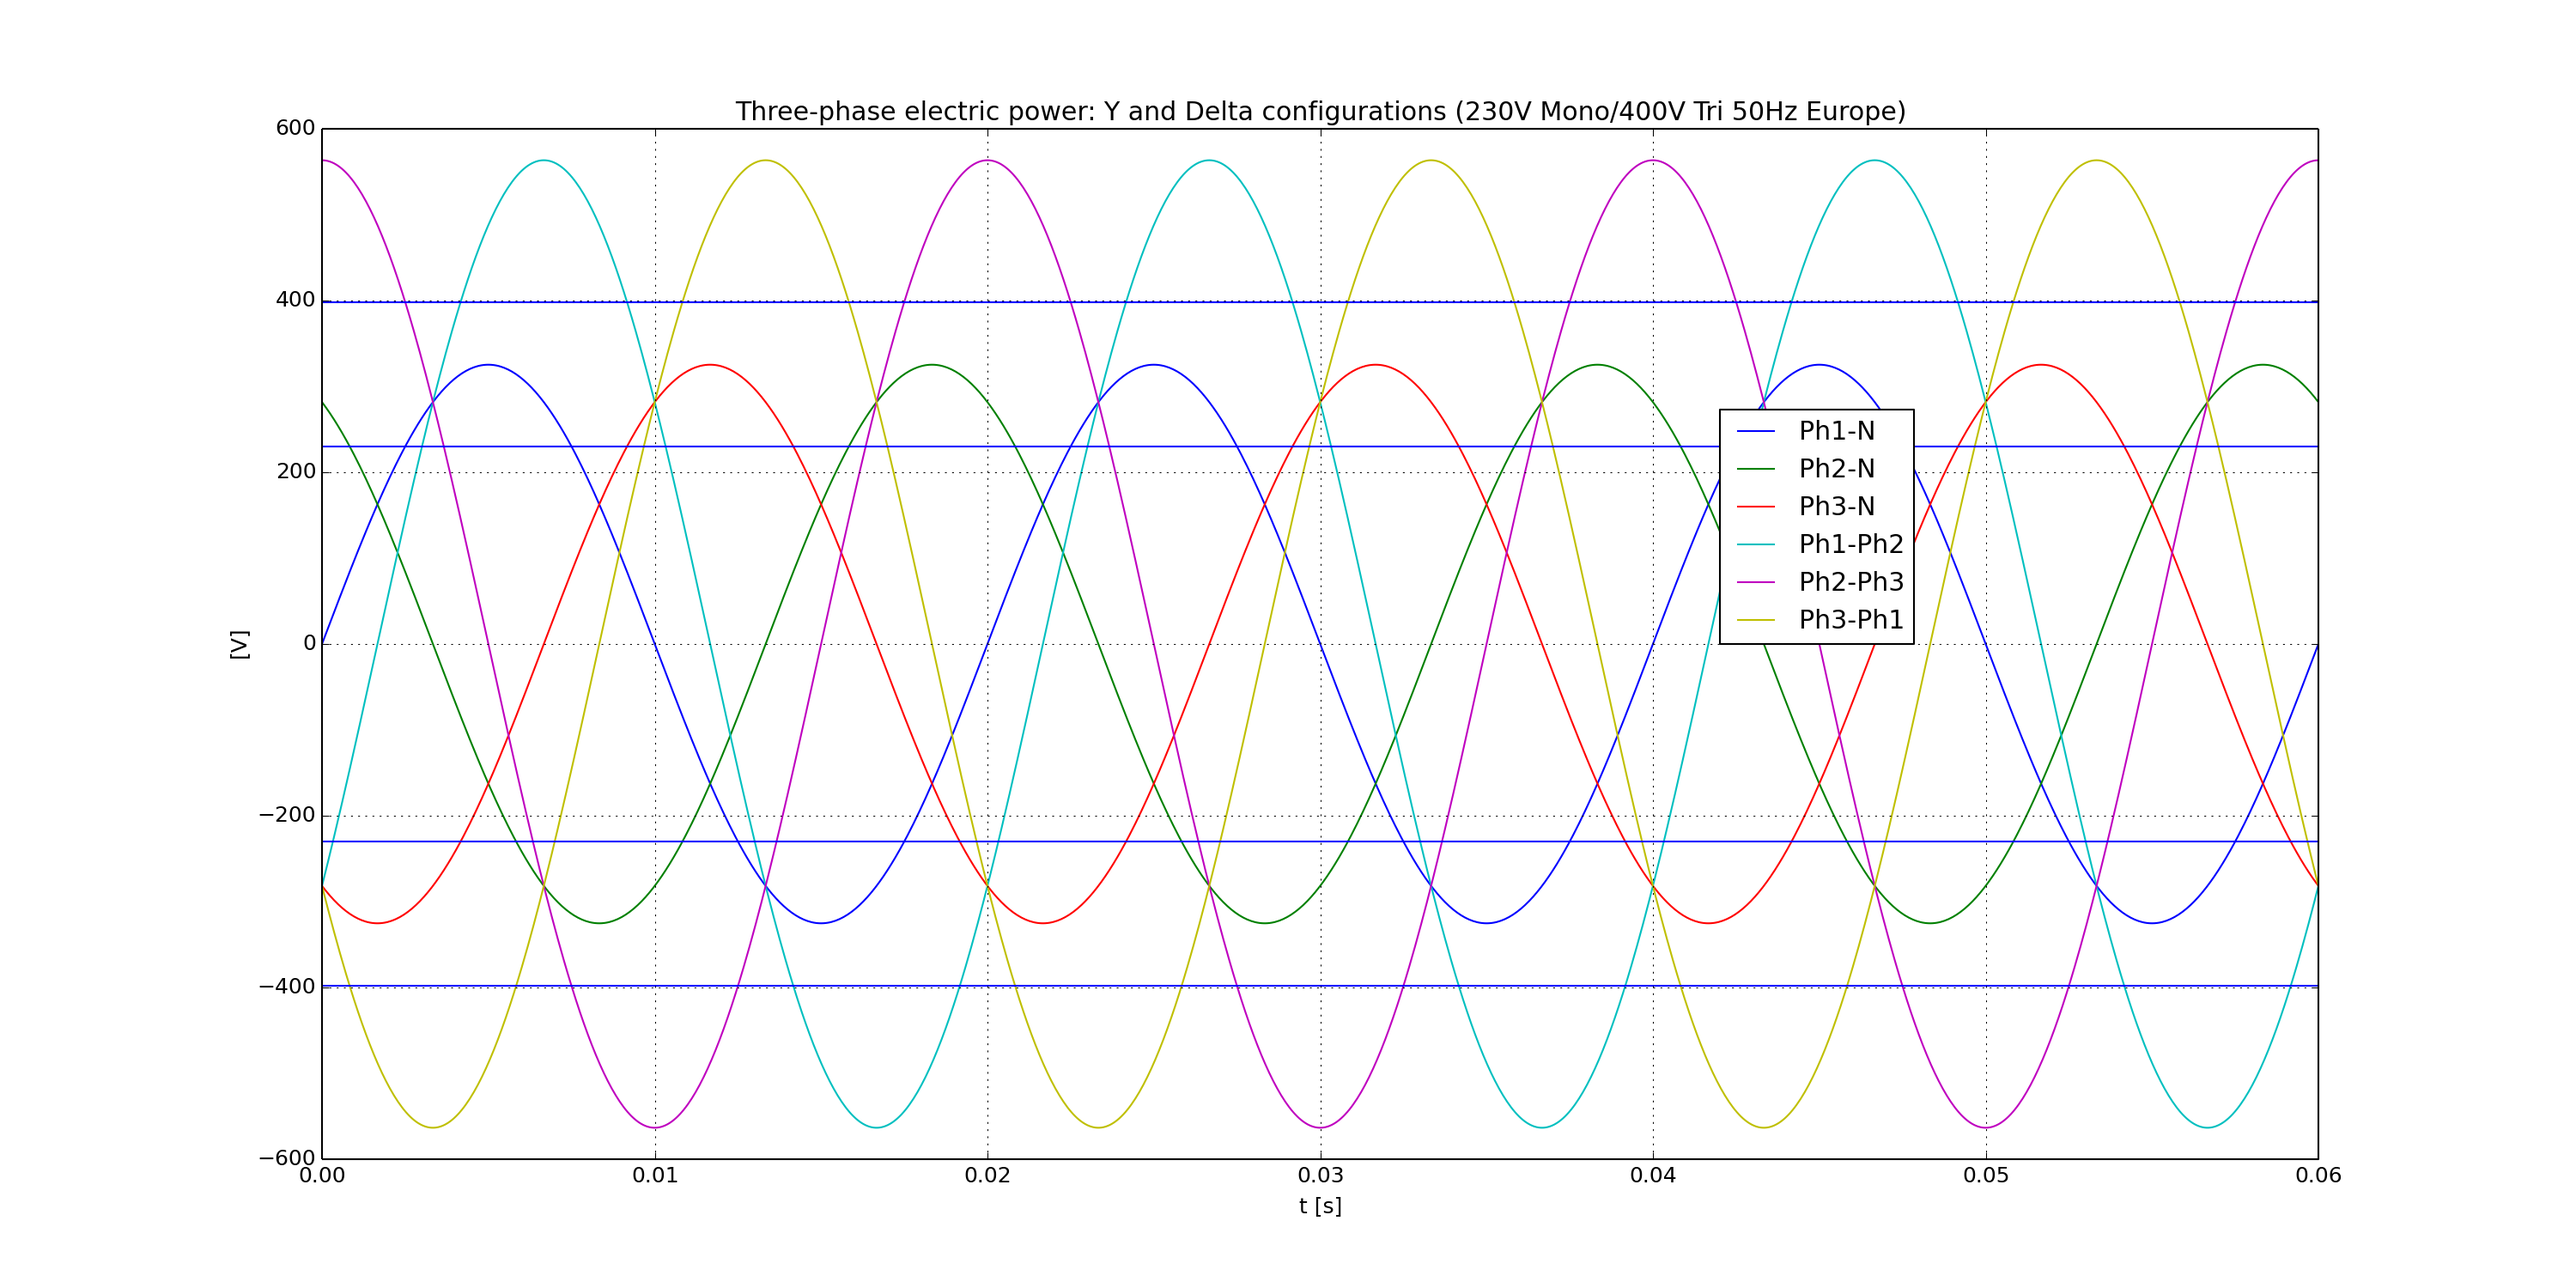
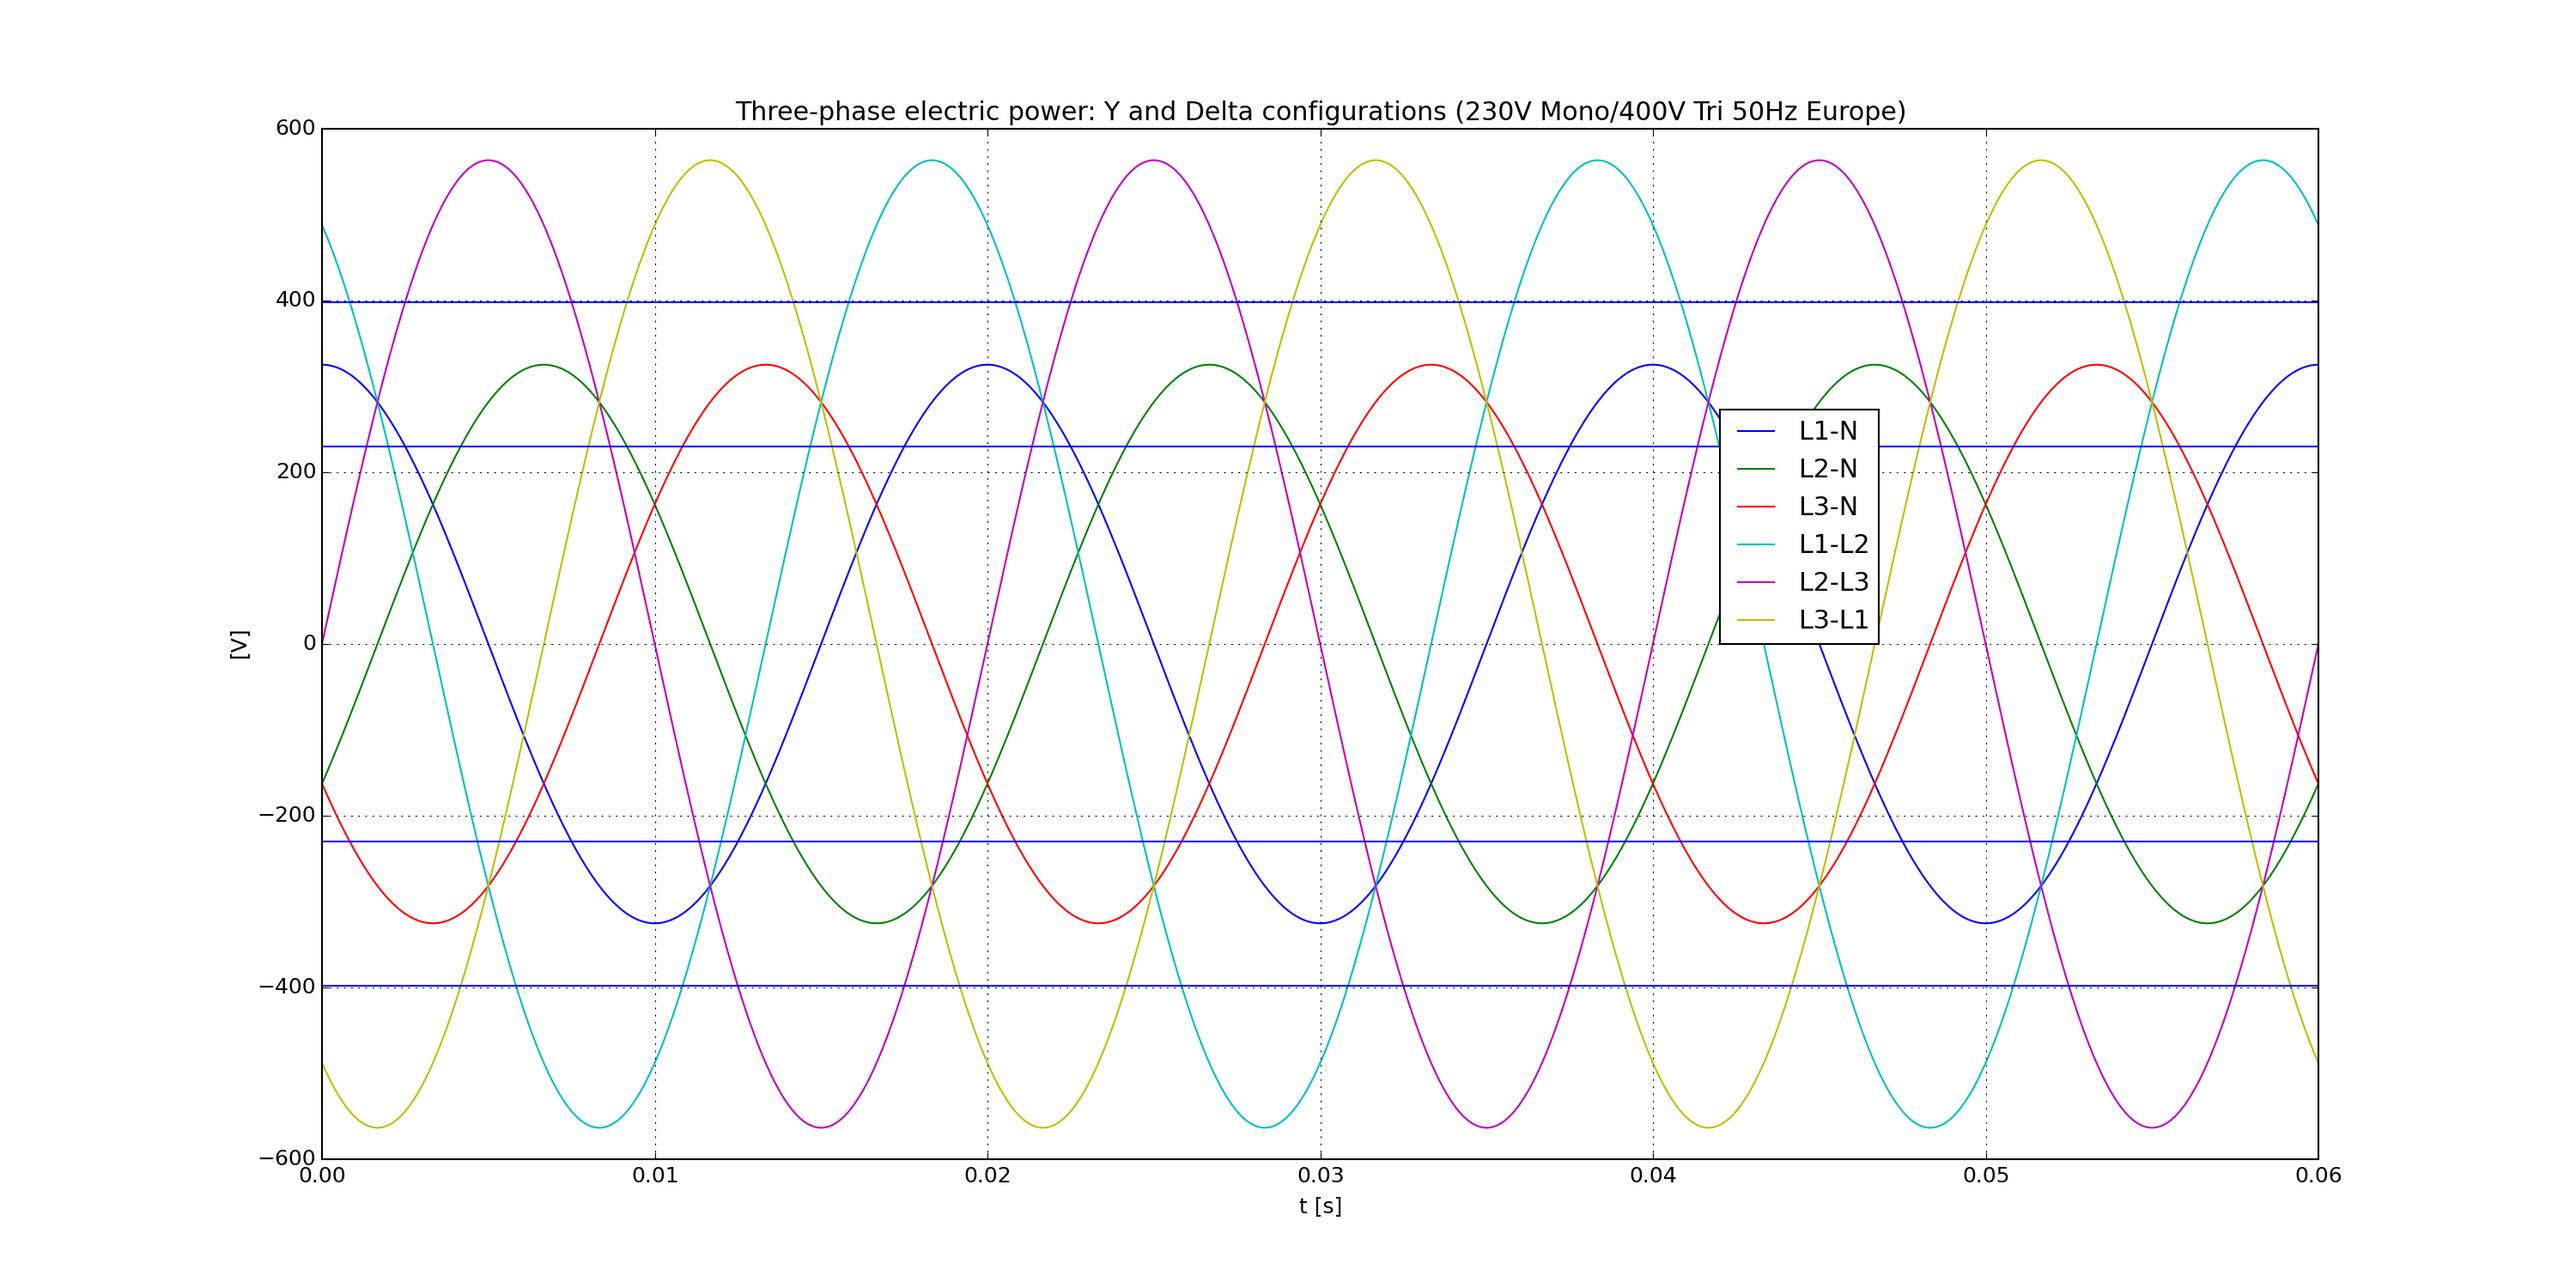
example updates

diff --git a/examples/electricity/three-phase.py b/examples/electricity/three-phase.py
@@ -17,37 +17,73 @@ import matplotlib.pylab as plt
 
 ####################################################################################################
 
-frequency = 50
-w = 2*math.pi*frequency
-period = 1. / frequency
+from PySpice.Unit.Units import *
+
+####################################################################################################
+
+#!# Let use an European 230 V / 50 Hz electric network.
+
+frequency = Frequency(50)
+w = frequency.pulsation
+period = frequency.period
 
 rms_mono = 230
-rms_tri = math.sqrt(3) * rms_mono
 amplitude_mono = rms_mono * math.sqrt(2)
+
+#!# The phase voltages in Y configuration are dephased of :math:`\frac{2\pi}{3}`:
+#!#
+#!# .. math::
+#!#  V_{L1 - N} = V_{pp} \cos \left( \omega t \right) \\
+#!#  V_{L2 - N} = V_{pp} \cos \left( \omega t - \frac{2\pi}{3} \right) \\
+#!#  V_{L3 - N} = V_{pp} \cos \left( \omega t - \frac{4\pi}{3} \right)
+#!#
+#!# We rewrite them in complex notation:
+#!#
+#!# .. math::
+#!#  V_{L1 - N} = V_{pp} e^{j\omega t} \\
+#!#  V_{L2 - N} = V_{pp} e^{j \left(\omega t - \frac{2\pi}{3} \right) } \\
+#!#  V_{L3 - N} = V_{pp} e^{j \left(\omega t - \frac{4\pi}{3} \right) }
+
+t = np.linspace(0, 3*float(period), 1000)
+L1 = amplitude_mono * np.cos(t*w)
+L2 = amplitude_mono * np.cos(t*w - 2*math.pi/3)
+L3 = amplitude_mono * np.cos(t*w - 4*math.pi/3)
+
+#!# From these expressions, we compute the voltage in delta configuration using trigonometric identities :
+#!#
+#!# .. math::
+#!#   V_{L1 - L2} = V_{L1} \sqrt{3} e^{j \frac{\pi}{6} } \\
+#!#   V_{L2 - L3} = V_{L2} \sqrt{3} e^{j \frac{\pi}{6} } \\
+#!#   V_{L3 - L1} = V_{L3} \sqrt{3} e^{j \frac{\pi}{6} }
+#!# 
+#!# In comparison to the Y configuration, the voltages in delta configuration are magnified by
+#!# a factor :math:`\sqrt{3}` and dephased of :math:`\frac{\pi}{6}`.
+#!#
+#!# Finally we rewrite them in temporal notation:
+#!#
+#!# .. math::
+#!#  V_{L1 - L2} = V_{pp} \sqrt{3} \cos \left( \omega t + \frac{\pi}{6} \right) \\
+#!#  V_{L2 - L3} = V_{pp} \sqrt{3} \cos \left( \omega t - \frac{\pi}{2} \right) \\
+#!#  V_{L3 - L1} = V_{pp} \sqrt{3} \cos \left( \omega t - \frac{7\pi}{6} \right)
+
+rms_tri = math.sqrt(3) * rms_mono
 amplitude_tri = rms_tri * math.sqrt(2)
 
-t = np.linspace(0, 3*period, 1000)
+L12 = amplitude_tri * np.cos(t*w + math.pi/6)
+L23 = amplitude_tri * np.cos(t*w - math.pi/2)
+L31 = amplitude_tri * np.cos(t*w - 7*math.pi/6)
 
-# Y configuration
-Ph1 = amplitude_mono * np.sin(t*w) # Ph1 - N
-Ph2 = amplitude_mono * np.sin(t*w + 2*math.pi/3) # Ph2 - N
-Ph3 = amplitude_mono * np.sin(t*w + 4*math.pi/3) # Ph3 - N
-
-# Delta configuration
-Ph12 = amplitude_tri * np.sin(t*w + math.pi/6) # Ph1 - Ph2
-Ph23 = amplitude_tri * np.sin(t*w + 3*math.pi/2) # Ph2 - Ph3
-Ph31 = amplitude_tri * np.sin(t*w + 5*math.pi/6) # Ph3 - Ph1
-
+#!# Now we plot the waveforms:
 figure = plt.figure(1, (20, 10))
-plt.plot(t, Ph1, t, Ph2, t, Ph3,
-           # t, Ph12, t, Ph23, t, Ph31,
-           t, Ph1-Ph2, t, Ph2-Ph3, t, Ph3-Ph1,
-          )
+plt.plot(t, L1, t, L2, t, L3,
+         t, L12, t, L23, t, L31,
+         # t, L1-L2, t, L2-L3, t, L3-L1,
+)
 plt.grid()
 plt.title('Three-phase electric power: Y and Delta configurations (230V Mono/400V Tri 50Hz Europe)')
-plt.legend(('Ph1-N', 'Ph2-N', 'Ph3-N',
-              'Ph1-Ph2', 'Ph2-Ph3', 'Ph3-Ph1'),
-             loc=(.7,.5))
+plt.legend(('L1-N', 'L2-N', 'L3-N',
+            'L1-L2', 'L2-L3', 'L3-L1'),
+           loc=(.7,.5))
 plt.xlabel('t [s]')
 plt.ylabel('[V]')
 plt.axhline(y=rms_mono, color='blue')

diff --git a/PySpice/Unit/Units.py b/PySpice/Unit/Units.py
@@ -493,7 +493,7 @@ class Frequency(Unit):
     @property
     def pulsation(self):
         r""" Return the pulsation :math:`\omega = 2\pi f`. """
-        return self * 2 * math.pi
+        return float(self * 2 * math.pi)
 
 ####################################################################################################
 

diff --git a/doc/sphinx/source/examples/electricity/three-phase.rst b/doc/sphinx/source/examples/electricity/three-phase.rst
@@ -17,37 +17,88 @@ This examples shows the computation of the voltage for the Y and Delta configura
     import matplotlib.pylab as plt
     
     
-    frequency = 50
-    w = 2*math.pi*frequency
-    period = 1. / frequency
+    from PySpice.Unit.Units import *
+    
+    
+
+Let use an European 230 V / 50 Hz electric network.
+
+.. code-block:: python
+
+    
+    frequency = Frequency(50)
+    w = frequency.pulsation
+    period = frequency.period
     
     rms_mono = 230
-    rms_tri = math.sqrt(3) * rms_mono
     amplitude_mono = rms_mono * math.sqrt(2)
+    
+
+The phase voltages in Y configuration are dephased of :math:`\frac{2\pi}{3}`:
+
+.. math::
+ V_{L1 - N} = V_{pp} \cos \left( \omega t \right) \\
+ V_{L2 - N} = V_{pp} \cos \left( \omega t - \frac{2\pi}{3} \right) \\
+ V_{L3 - N} = V_{pp} \cos \left( \omega t - \frac{4\pi}{3} \right)
+
+We rewrite them in complex notation:
+
+.. math::
+ V_{L1 - N} = V_{pp} e^{j\omega t} \\
+ V_{L2 - N} = V_{pp} e^{j \left(\omega t - \frac{2\pi}{3} \right) } \\
+ V_{L3 - N} = V_{pp} e^{j \left(\omega t - \frac{4\pi}{3} \right) }
+
+.. code-block:: python
+
+    
+    t = np.linspace(0, 3*float(period), 1000)
+    L1 = amplitude_mono * np.cos(t*w)
+    L2 = amplitude_mono * np.cos(t*w - 2*math.pi/3)
+    L3 = amplitude_mono * np.cos(t*w - 4*math.pi/3)
+    
+
+From these expressions, we compute the voltage in delta configuration using trigonometric identities :
+
+.. math::
+  V_{L1 - L2} = V_{L1} \sqrt{3} e^{j \frac{\pi}{6} } \\
+  V_{L2 - L3} = V_{L2} \sqrt{3} e^{j \frac{\pi}{6} } \\
+  V_{L3 - L1} = V_{L3} \sqrt{3} e^{j \frac{\pi}{6} }
+
+In comparison to the Y configuration, the voltages in delta configuration are magnified by
+a factor :math:`\sqrt{3}` and dephased of :math:`\frac{\pi}{6}`.
+
+Finally we rewrite them in temporal notation:
+
+.. math::
+ V_{L1 - L2} = V_{pp} \sqrt{3} \cos \left( \omega t + \frac{\pi}{6} \right) \\
+ V_{L2 - L3} = V_{pp} \sqrt{3} \cos \left( \omega t - \frac{\pi}{2} \right) \\
+ V_{L3 - L1} = V_{pp} \sqrt{3} \cos \left( \omega t - \frac{7\pi}{6} \right)
+
+.. code-block:: python
+
+    
+    rms_tri = math.sqrt(3) * rms_mono
     amplitude_tri = rms_tri * math.sqrt(2)
     
-    t = np.linspace(0, 3*period, 1000)
+    L12 = amplitude_tri * np.cos(t*w + math.pi/6)
+    L23 = amplitude_tri * np.cos(t*w - math.pi/2)
+    L31 = amplitude_tri * np.cos(t*w - 7*math.pi/6)
     
-    # Y configuration
-    Ph1 = amplitude_mono * np.sin(t*w) # Ph1 - N
-    Ph2 = amplitude_mono * np.sin(t*w + 2*math.pi/3) # Ph2 - N
-    Ph3 = amplitude_mono * np.sin(t*w + 4*math.pi/3) # Ph3 - N
-    
-    # Delta configuration
-    Ph12 = amplitude_tri * np.sin(t*w + math.pi/6) # Ph1 - Ph2
-    Ph23 = amplitude_tri * np.sin(t*w + 3*math.pi/2) # Ph2 - Ph3
-    Ph31 = amplitude_tri * np.sin(t*w + 5*math.pi/6) # Ph3 - Ph1
-    
+
+Now we plot the waveforms:
+
+.. code-block:: python
+
     figure = plt.figure(1, (20, 10))
-    plt.plot(t, Ph1, t, Ph2, t, Ph3,
-               # t, Ph12, t, Ph23, t, Ph31,
-               t, Ph1-Ph2, t, Ph2-Ph3, t, Ph3-Ph1,
-              )
+    plt.plot(t, L1, t, L2, t, L3,
+             t, L12, t, L23, t, L31,
+             # t, L1-L2, t, L2-L3, t, L3-L1,
+    )
     plt.grid()
     plt.title('Three-phase electric power: Y and Delta configurations (230V Mono/400V Tri 50Hz Europe)')
-    plt.legend(('Ph1-N', 'Ph2-N', 'Ph3-N',
-                  'Ph1-Ph2', 'Ph2-Ph3', 'Ph3-Ph1'),
-                 loc=(.7,.5))
+    plt.legend(('L1-N', 'L2-N', 'L3-N',
+                'L1-L2', 'L2-L3', 'L3-L1'),
+               loc=(.7,.5))
     plt.xlabel('t [s]')
     plt.ylabel('[V]')
     plt.axhline(y=rms_mono, color='blue')

diff --git a/doc/sphinx/source/examples/filter/low-pass-rc-filter.rst b/doc/sphinx/source/examples/filter/low-pass-rc-filter.rst
@@ -27,8 +27,7 @@
     circuit.C('f', 'out', circuit.gnd, micro(1))
     
     simulator = circuit.simulator(temperature=25, nominal_temperature=25)
-    analysis = simulator.ac(start_frequency=1, stop_frequency=mega(1), number_of_points=10,  variation='dec',
-                            probes=('V(in)', 'V(out)'))
+    analysis = simulator.ac(start_frequency=1, stop_frequency=mega(1), number_of_points=10,  variation='dec')
     
     print analysis.out
     
